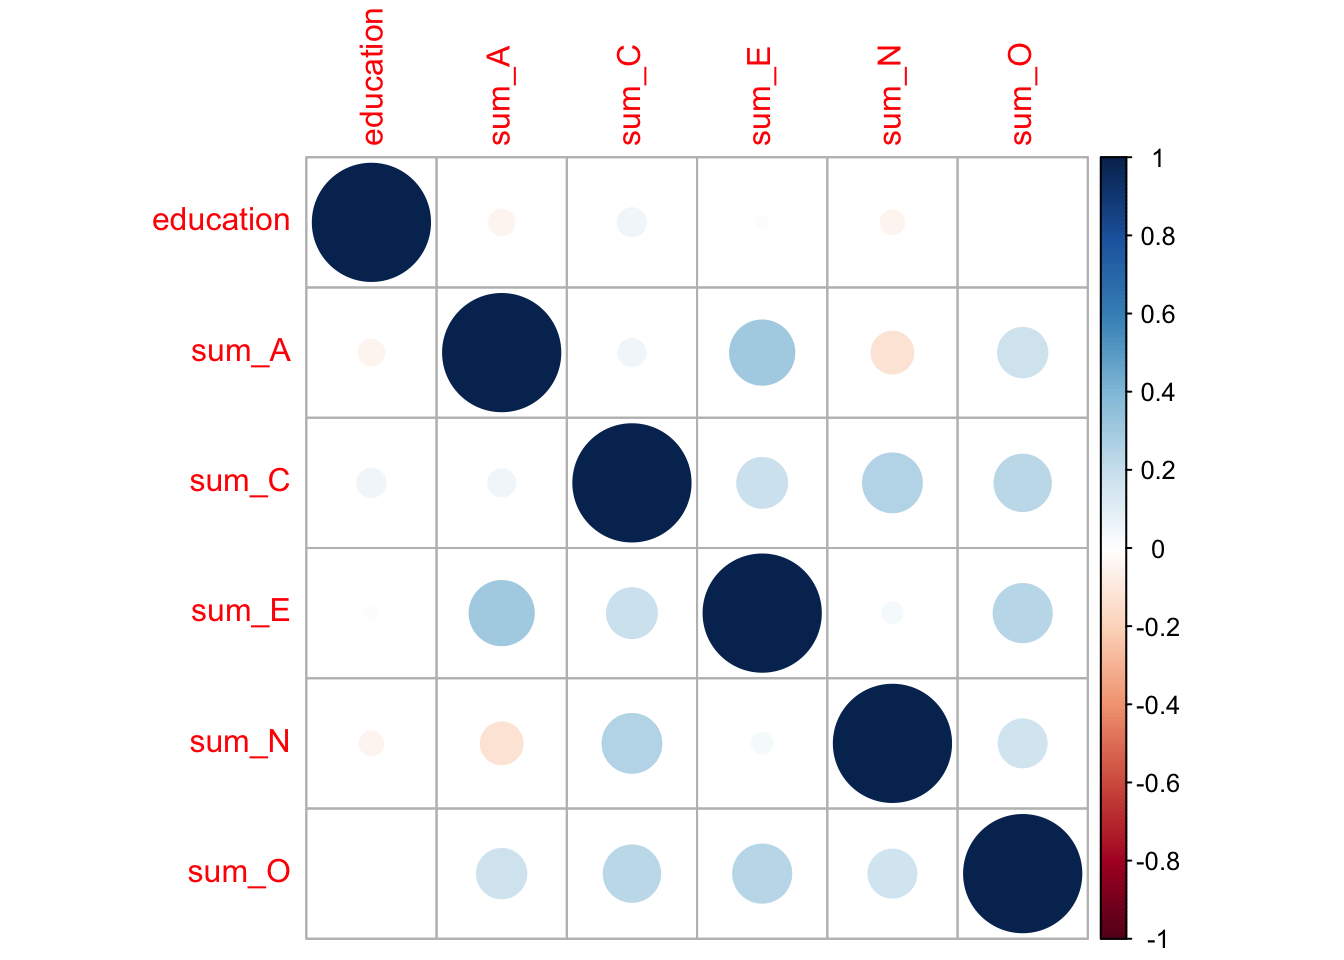
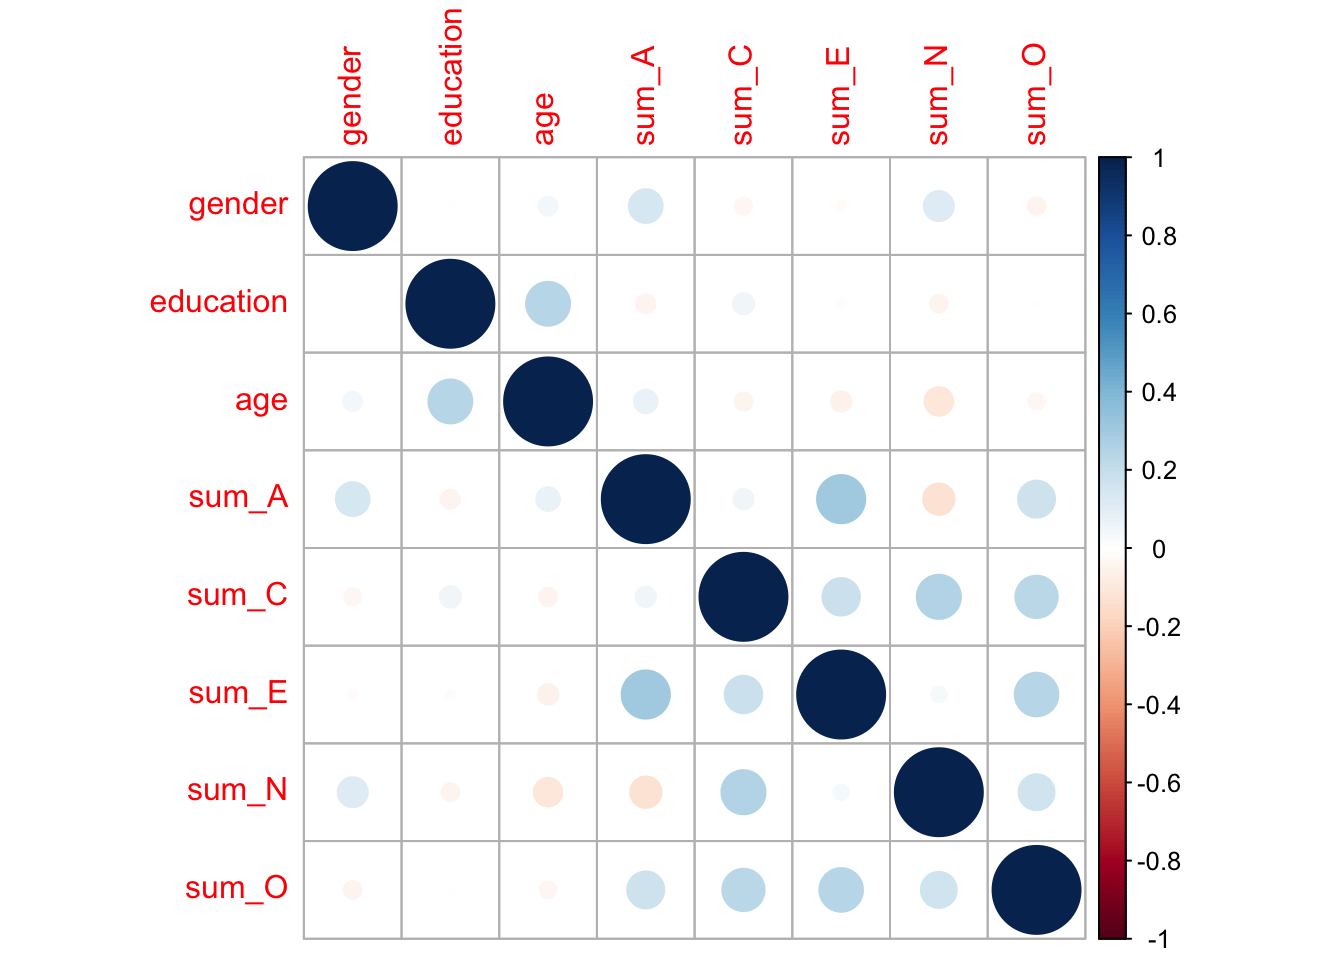
8.17noon_5

diff --git a/yeongchan/pj8_yeongchan.html b/yeongchan/pj8_yeongchan.html
@@ -357,27 +357,31 @@ X-squared = 388.74, df = 32, p-value &lt; 2.2e-16</code></pre>
  - attr(*, "na.action")= 'omit' Named int [1:564] 1 2 3 4 5 7 9 10 12 13 ...
   ..- attr(*, "names")= chr [1:564] "61617" "61618" "61620" "61621" ...</code></pre>
 </div>
-<div class="sourceCode cell-code" id="cb31"><pre class="sourceCode r code-with-copy"><code class="sourceCode r"><span id="cb31-1"><a href="#cb31-1" aria-hidden="true" tabindex="-1"></a><span class="fu">corr.test</span>(bfiDF_omit[,<span class="fu">c</span>(<span class="dv">27</span>,<span class="dv">32</span><span class="sc">:</span><span class="dv">36</span>)])</span></code><button title="Copy to Clipboard" class="code-copy-button"><i class="bi"></i></button></pre></div>
+<div class="sourceCode cell-code" id="cb31"><pre class="sourceCode r code-with-copy"><code class="sourceCode r"><span id="cb31-1"><a href="#cb31-1" aria-hidden="true" tabindex="-1"></a><span class="fu">corr.test</span>(bfiDF_omit[,<span class="fu">c</span>(<span class="dv">26</span><span class="sc">:</span><span class="dv">28</span>,<span class="dv">32</span><span class="sc">:</span><span class="dv">36</span>)])</span></code><button title="Copy to Clipboard" class="code-copy-button"><i class="bi"></i></button></pre></div>
 <div class="cell-output cell-output-stdout">
-<pre><code>Call:corr.test(x = bfiDF_omit[, c(27, 32:36)])
+<pre><code>Call:corr.test(x = bfiDF_omit[, c(26:28, 32:36)])
 Correlation matrix 
-          education sum_A sum_C sum_E sum_N sum_O
-education      1.00 -0.05  0.06  0.01 -0.04  0.00
-sum_A         -0.05  1.00  0.05  0.30 -0.13  0.18
-sum_C          0.06  0.05  1.00  0.18  0.25  0.23
-sum_E          0.01  0.30  0.18  1.00  0.03  0.25
-sum_N         -0.04 -0.13  0.25  0.03  1.00  0.17
-sum_O          0.00  0.18  0.23  0.25  0.17  1.00
+          gender education   age sum_A sum_C sum_E sum_N sum_O
+gender      1.00      0.01  0.05  0.15 -0.04 -0.01  0.12 -0.04
+education   0.01      1.00  0.25 -0.05  0.06  0.01 -0.04  0.00
+age         0.05      0.25  1.00  0.07 -0.04 -0.05 -0.11 -0.04
+sum_A       0.15     -0.05  0.07  1.00  0.05  0.30 -0.13  0.18
+sum_C      -0.04      0.06 -0.04  0.05  1.00  0.18  0.25  0.23
+sum_E      -0.01      0.01 -0.05  0.30  0.18  1.00  0.03  0.25
+sum_N       0.12     -0.04 -0.11 -0.13  0.25  0.03  1.00  0.17
+sum_O      -0.04      0.00 -0.04  0.18  0.23  0.25  0.17  1.00
 Sample Size 
 [1] 2236
 Probability values (Entries above the diagonal are adjusted for multiple tests.) 
-          education sum_A sum_C sum_E sum_N sum_O
-education      0.00  0.13  0.04  1.00  0.21     1
-sum_A          0.03  0.00  0.07  0.00  0.00     0
-sum_C          0.01  0.01  0.00  0.00  0.00     0
-sum_E          0.63  0.00  0.00  0.00  0.43     0
-sum_N          0.05  0.00  0.00  0.14  0.00     0
-sum_O          0.85  0.00  0.00  0.00  0.00     0
+          gender education  age sum_A sum_C sum_E sum_N sum_O
+gender      0.00      1.00 0.31  0.00  0.50  1.00  0.00  0.48
+education   0.79      0.00 0.00  0.31  0.09  1.00  0.48  1.00
+age         0.03      0.00 0.00  0.01  0.47  0.14  0.00  0.54
+sum_A       0.00      0.03 0.00  0.00  0.15  0.00  0.00  0.00
+sum_C       0.07      0.01 0.05  0.01  0.00  0.00  0.00  0.00
+sum_E       0.57      0.63 0.01  0.00  0.00  0.00  0.72  0.00
+sum_N       0.00      0.05 0.00  0.00  0.00  0.14  0.00  0.00
+sum_O       0.05      0.85 0.09  0.00  0.00  0.00  0.00  0.00
 
  To see confidence intervals of the correlations, print with the short=FALSE option</code></pre>
 </div>
@@ -386,17 +390,28 @@ sum_O          0.85  0.00  0.00  0.00  0.00     0
 <span id="cb33-3"><a href="#cb33-3" aria-hidden="true" tabindex="-1"></a><span class="co"># education-sum_C =&gt; 0.01</span></span>
 <span id="cb33-4"><a href="#cb33-4" aria-hidden="true" tabindex="-1"></a><span class="co"># # C성실성</span></span>
 <span id="cb33-5"><a href="#cb33-5" aria-hidden="true" tabindex="-1"></a><span class="co"># corrplot(bfiDF_omit[c(,27,31:35)])</span></span>
-<span id="cb33-6"><a href="#cb33-6" aria-hidden="true" tabindex="-1"></a>corData <span class="ot">&lt;-</span> bfiDF_omit[,<span class="fu">c</span>(<span class="dv">27</span>,<span class="dv">32</span><span class="sc">:</span><span class="dv">36</span>)]</span>
+<span id="cb33-6"><a href="#cb33-6" aria-hidden="true" tabindex="-1"></a>corData <span class="ot">&lt;-</span> bfiDF_omit[,<span class="fu">c</span>(<span class="dv">26</span><span class="sc">:</span><span class="dv">28</span>,<span class="dv">32</span><span class="sc">:</span><span class="dv">36</span>)]</span>
 <span id="cb33-7"><a href="#cb33-7" aria-hidden="true" tabindex="-1"></a>corMatrix <span class="ot">&lt;-</span> <span class="fu">cor</span>(corData)</span>
 <span id="cb33-8"><a href="#cb33-8" aria-hidden="true" tabindex="-1"></a>corMatrix</span></code><button title="Copy to Clipboard" class="code-copy-button"><i class="bi"></i></button></pre></div>
 <div class="cell-output cell-output-stdout">
-<pre><code>            education       sum_A      sum_C      sum_E       sum_N       sum_O
-education  1.00000000 -0.04712627 0.05776667 0.01014624 -0.04081495 -0.00394203
-sum_A     -0.04712627  1.00000000 0.05346300 0.30039252 -0.12711922  0.17705902
-sum_C      0.05776667  0.05346300 1.00000000 0.18170833  0.25206114  0.23152325
-sum_E      0.01014624  0.30039252 0.18170833 1.00000000  0.03085249  0.24605280
-sum_N     -0.04081495 -0.12711922 0.25206114 0.03085249  1.00000000  0.16735843
-sum_O     -0.00394203  0.17705902 0.23152325 0.24605280  0.16735843  1.00000000</code></pre>
+<pre><code>                gender    education         age       sum_A       sum_C
+gender     1.000000000  0.005729646  0.04697530  0.14713996 -0.03816819
+education  0.005729646  1.000000000  0.24911368 -0.04712627  0.05776667
+age        0.046975299  0.249113684  1.00000000  0.07203687 -0.04206447
+sum_A      0.147139960 -0.047126267  0.07203687  1.00000000  0.05346300
+sum_C     -0.038168193  0.057766674 -0.04206447  0.05346300  1.00000000
+sum_E     -0.012037519  0.010146235 -0.05448275  0.30039252  0.18170833
+sum_N      0.116491021 -0.040814950 -0.10563180 -0.12711922  0.25206114
+sum_O     -0.040612688 -0.003942030 -0.03588258  0.17705902  0.23152325
+                sum_E       sum_N       sum_O
+gender    -0.01203752  0.11649102 -0.04061269
+education  0.01014624 -0.04081495 -0.00394203
+age       -0.05448275 -0.10563180 -0.03588258
+sum_A      0.30039252 -0.12711922  0.17705902
+sum_C      0.18170833  0.25206114  0.23152325
+sum_E      1.00000000  0.03085249  0.24605280
+sum_N      0.03085249  1.00000000  0.16735843
+sum_O      0.24605280  0.16735843  1.00000000</code></pre>
 </div>
 <div class="sourceCode cell-code" id="cb35"><pre class="sourceCode r code-with-copy"><code class="sourceCode r"><span id="cb35-1"><a href="#cb35-1" aria-hidden="true" tabindex="-1"></a><span class="fu">corrplot</span>(corMatrix)</span></code><button title="Copy to Clipboard" class="code-copy-button"><i class="bi"></i></button></pre></div>
 <div class="cell-output-display">
@@ -883,7 +898,7 @@ Note:               *p&lt;0.1; **p&lt;0.05; ***p&lt;0.01</code></pre>
 <h1>설문항목 A, C, N이 교육수준과 회귀계수가 높음을 확인 했으나 설문항목과 교육수준의 상관관계가 약하므로 높은 회귀계수는 의미가 없음을 확인</h1>
 <div class="cell">
 <div class="sourceCode cell-code" id="cb98"><pre class="sourceCode r code-with-copy"><code class="sourceCode r"><span id="cb98-1"><a href="#cb98-1" aria-hidden="true" tabindex="-1"></a><span class="fu">library</span>(car)</span>
-<span id="cb98-2"><a href="#cb98-2" aria-hidden="true" tabindex="-1"></a><span class="fu">scatterplotMatrix</span>(bfiDF_omit[<span class="dv">29</span><span class="sc">:</span><span class="dv">35</span>], <span class="at">pch =</span> <span class="dv">19</span>, <span class="at">col =</span> <span class="st">"steelblue"</span>, <span class="at">cex =</span> <span class="fl">1.2</span>,</span>
+<span id="cb98-2"><a href="#cb98-2" aria-hidden="true" tabindex="-1"></a><span class="fu">scatterplotMatrix</span>(bfiDF_omit[<span class="dv">29</span><span class="sc">:</span><span class="dv">36</span>], <span class="at">pch =</span> <span class="dv">19</span>, <span class="at">col =</span> <span class="st">"steelblue"</span>, <span class="at">cex =</span> <span class="fl">1.2</span>,</span>
 <span id="cb98-3"><a href="#cb98-3" aria-hidden="true" tabindex="-1"></a><span class="at">regLine =</span> <span class="fu">list</span>(<span class="at">method =</span> lm, <span class="at">lwd =</span> <span class="dv">2</span>, <span class="at">col =</span> <span class="st">"tomato"</span>), <span class="at">smooth =</span> <span class="fu">list</span>(<span class="at">smoother =</span> loessLine, <span class="at">spread =</span> <span class="cn">FALSE</span>,</span>
 <span id="cb98-4"><a href="#cb98-4" aria-hidden="true" tabindex="-1"></a>                                  <span class="at">lwd.smooth =</span> <span class="dv">2</span>, <span class="at">col.smooth =</span> <span class="st">"orange"</span>))</span></code><button title="Copy to Clipboard" class="code-copy-button"><i class="bi"></i></button></pre></div>
 <div class="cell-output-display">
